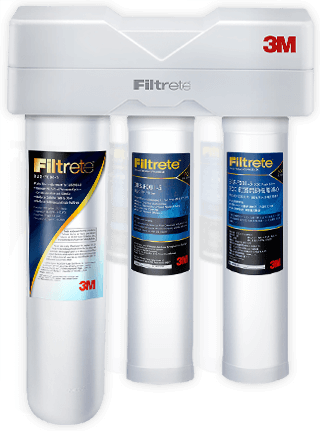
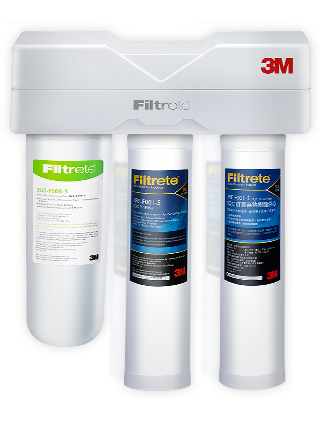
S302_final

diff --git a/S302_final/index.html b/S302_final/index.html
@@ -3,7 +3,7 @@
 <head>
 <meta charset="UTF-8">
 <meta name='viewport' content='width=device-width; initial-scale=1.0; maximum-scale=1.0; user-scalable=0;'>
-<title>S301櫥下型三道式淨水器</title>
+<title>S302櫥下型三道式淨水器</title>
 <style>
 /* CSS Document */
 body, p, h1, h2 { padding: 0; margin: 0; font-family: "Arial","微軟正黑體","Microsoft JhengHei"; font-weight: 500;}
@@ -77,6 +77,7 @@ margin-bottom: 10px;}
 .box_04 .contain .pd ul li{ display: inline-block; color: #315d95; font-size: 22px; font-weight: bold; padding: 0 10px; text-align: left; }
 .box_04 .contain .pd ul li.second{ padding-right: 20px; }
 .box_04 .contain .pd ul li.pic{ width: 47px; vertical-align: middle; }
+.box_04 .contain .pd3 ul li.pic{ width: 55px; }
 .box_04 .contain .info{ width: 55%; margin-left: 10%; }
 .box_04 .contain .info p{ font-size: 16px; line-height: 24px; text-align: left; }
 .box_04 .contain .info p span{ font-weight: bold; color: #f8883d;}
@@ -508,8 +509,8 @@ h1{ font-size: 26px; line-height: 35px;}
 			<div class="contain">
 				<div class="pd pd3">
 					<ul>
-						<li><span class="num">3. </span>S004<br />活性碳棒濾心</li>
-						<li class="pic"><img src="images/f3.png" alt="S004活性碳棒濾心" /></li>
+						<li><span class="num">3. </span>S008<br />活性碳棒濾心</li>
+						<li class="pic"><img src="images/f3.png" alt="S008活性碳棒濾心" /></li>
 					</ul>
 				</div>
 				<div class="info">
@@ -560,19 +561,19 @@ h1{ font-size: 26px; line-height: 35px;}
 		    <p>主濾心至多可使用一年，有7,571公升的大處理量，每分鐘出水量最大可達1.8公升，滿足4人以上大家庭即開即飲的需求，安心便利又省錢。</p>
 		    <div class="title">7,571公升<span> / 一年使用量</span></div>
 		    <div class="compare">
-		    	<div class="pd-name mshow"><span class="model">S301</span><br />櫥下型三道式淨水器</div>
-		    	<div class="pd"><img src="images/pd_2.png" alt="S301櫥下型三道式淨水器" /></div>
+		    	<div class="pd-name mshow"><span class="model">S302</span><br />櫥下型三道式淨水器</div>
+		    	<div class="pd"><img src="images/pd_2.png" alt="S302櫥下型三道式淨水器" /></div>
 		    	<dl class="info">
-		    		<dt class="name pcshow"><span class="model">S301</span><br />櫥下型三道式淨水器</dt>
+		    		<dt class="name pcshow"><span class="model">S302</span><br />櫥下型三道式淨水器</dt>
 		    		<dd class="price-c">
 		    			<div class="win"><img src="images/win.png" alt="" /></div>
 		    			<div class="txt txt1">
 		    				<p>三道替換濾心<span>(1年)</span></p>
-		    				<p><span class="price">$6,620</span>元</p>
+		    				<p><span class="price">$6,420</span>元</p>
 		    			</div>
 		    			<div class="txt">
 		    				<p>每公升</p>
-		    				<p><span class="price">$0.87</span>元</p>
+		    				<p><span class="price">$0.85</span>元</p>
 		    			</div>
 		    		</dd>
 		    		<div class="tip">* 淨水器的購置金額並無計入，計算總成本時需另行加計</div>
@@ -681,18 +682,18 @@ h1{ font-size: 26px; line-height: 35px;}
 			<div class="container">
 			    <div class="pd">
 			    	<h1>產品規格</h1>
-			    	<div class="pic1"><img src="images/pd.jpg" alt="3M:S301櫥下型三道式淨水器"></div>
+			    	<div class="pic1"><img src="images/pd.jpg" alt="3M:S302櫥下型三道式淨水器"></div>
 			    </div>
 			    <div class="table">
 				    <ul>
 			            <li>
 			            	<div class="name">商品名稱</div>
-			            	<div class="content">3M™ S301櫥下型三道式淨水系統</div>
+			            	<div class="content">3M™ S302櫥下型三道式淨水系統</div>
 			            	<div style="clear: both;"></div>
 			            </li>
 			            <li>
 			            	<div class="name">濾心型號</div>
-			            	<div class="content">前置PP濾心：3RS-F001-5<br />前置樹脂軟水濾心：3RF-F001-5<br />高密度活性碳濾心：3US-F004-5</div>
+			            	<div class="content">前置PP濾心：3RS-F001-5<br />前置樹脂軟水濾心：3RF-F001-5<br />高密度活性碳濾心：3US-F008-5</div>
 			            	<div style="clear: both;"></div>
 			            </li>
 			            <li>
